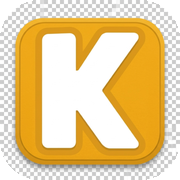
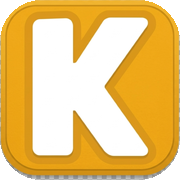
Icônes détourées (fin du damier) + cible embarquée dans start_url via manifest dynamique (le raccourci ne dépend plus du localStorage)

diff --git a/go.html b/go.html
@@ -1,12 +1,12 @@
 <!DOCTYPE html><html lang="fr"><head>
 <meta charset="UTF-8"><meta name="viewport" content="width=device-width, initial-scale=1.0">
 <title>Koulway</title>
-<link rel="manifest" href="manifest.webmanifest">
+<link rel="manifest" id="mf" href="manifest.webmanifest">
 <link rel="apple-touch-icon" href="icon-180.png">
 <link rel="icon" type="image/png" sizes="192x192" href="icon-192.png">
 <meta name="theme-color" content="#0E6E78">
 <style>body{font-family:-apple-system,BlinkMacSystemFont,'Segoe UI',Roboto,sans-serif;background:#F5F4F2;margin:0;padding:56px 22px;text-align:center;color:#1A1A1A}
-img.lg{width:96px;height:96px;border-radius:22%}h1{font-size:19px;margin:14px 0 6px}p{font-size:13.5px;color:#555;line-height:1.55;max-width:340px;margin:8px auto}
+img.lg{width:96px;height:96px}h1{font-size:19px;margin:14px 0 6px}p{font-size:13.5px;color:#555;line-height:1.55;max-width:340px;margin:8px auto}
 .etape{background:#fff;border-radius:12px;padding:14px;margin:10px auto;max-width:340px;text-align:left;font-size:13.5px;box-shadow:0 1px 2px rgba(0,0,0,.06)}</style>
 </head><body>
 <img class="lg" src="icon-192.png" alt="Koulway">
@@ -18,16 +18,31 @@ img.lg{width:96px;height:96px;border-radius:22%}h1{font-size:19px;margin:14px 0 
 </div>
 <p id="chg">Ouverture du hub…</p>
 <script>
-// La cible (URL du hub) n'est JAMAIS écrite dans cette page publique : elle
-// arrive par le #fragment depuis le bouton « Préparer l'icône » du hub, puis
-// vit dans le localStorage de CE navigateur.
+// La cible (URL du hub) n'est JAMAIS écrite dans ce dépôt public. Elle
+// arrive du bouton « Préparer l'icône » du hub (#fragment), puis est
+// EMBARQUÉE dans l'icône elle-même : en mode installation, un manifest
+// dynamique (data:) fixe start_url = go.html?go=<cible> — le raccourci
+// n'a donc besoin d'aucun stockage pour retrouver le hub. localStorage
+// reste un simple secours.
 (function(){
-  var h=location.hash?decodeURIComponent(location.hash.slice(1)):'';
-  if(h&&/^https:\/\/script\.google\.com\//.test(h)){try{localStorage.setItem('KW_GO',h);}catch(e){}}
-  var cible='';try{cible=localStorage.getItem('KW_GO')||'';}catch(e){}
+  var OK=/^https:\/\/script\.google\.com\//;
+  function param(n){var m=location.search.match(new RegExp('[?&]'+n+'=([^&]+)'));return m?decodeURIComponent(m[1]):'';}
+  var cible=param('go');
+  if(!OK.test(cible)){cible=location.hash?decodeURIComponent(location.hash.slice(1)):'';}
+  if(!OK.test(cible)){try{cible=localStorage.getItem('KW_GO')||'';}catch(e){}}
+  if(!OK.test(cible)){cible='';}
+  if(cible){try{localStorage.setItem('KW_GO',cible);}catch(e){}}
   var setup=/[?&]setup=1/.test(location.search);
   var standalone=(navigator.standalone===true)||(window.matchMedia&&matchMedia('(display-mode: standalone)').matches);
   if(setup&&!standalone){
+    if(cible){
+      var mfObj={name:'Koulway',short_name:'Koulway',display:'standalone',background_color:'#F5F4F2',theme_color:'#0E6E78',
+        start_url:location.origin+location.pathname+'?go='+encodeURIComponent(cible),
+        icons:[{src:location.origin+'/koulway-assets/icon-192.png',sizes:'192x192',type:'image/png'},
+               {src:location.origin+'/koulway-assets/icon-512.png',sizes:'512x512',type:'image/png'},
+               {src:location.origin+'/koulway-assets/icon-512-maskable.png',sizes:'512x512',type:'image/png',purpose:'maskable'}]};
+      document.getElementById('mf').setAttribute('href','data:application/manifest+json,'+encodeURIComponent(JSON.stringify(mfObj)));
+    }
     document.getElementById('chg').style.display='none';
     var ios=/iPad|iPhone|iPod/.test(navigator.userAgent);
     document.getElementById('etapes').innerHTML=ios
